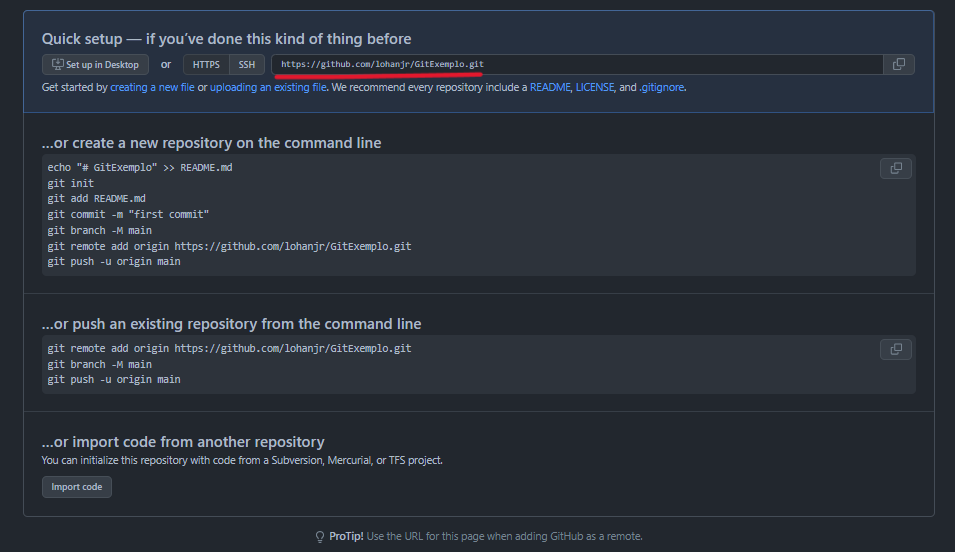
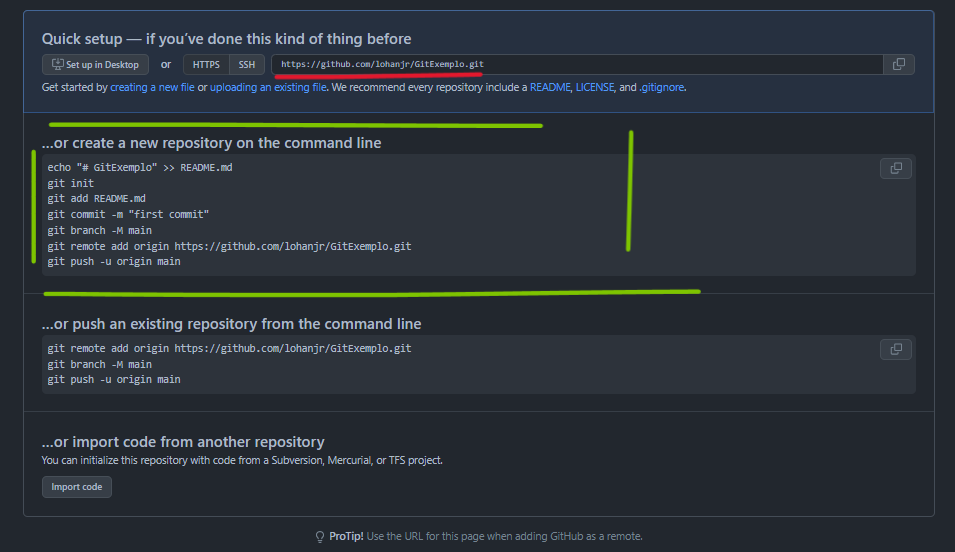
modified structure of the creating repos content

diff --git a/readme.md b/readme.md
@@ -4,13 +4,47 @@ Olá, irei colocar aqui alguns comandinhos e atalhos como dicas que venho aprend
 
 A lógica que iremos seguir será, estabelecer uma conexão entre seu repositório local ao remoto do _Github.com_! Para nos possibilitar segurança e versionamentos(alterações individuais ou em equipe) ao desenvolver o projeto.
 
-> _PS: Vou me basear na situação em que você já possui o(s) arquivo(s) do seu projeto salvo no seu dispositivo..._
+> _PS: Vou me basear na situação em que você irá criar um repositório novo, um que não tenha arquivos..._
 
 ## - Criando um novo repositório
 
-* Dê um `Git Bash Here` na pasta pai em que seus arquivos se encontram, o terminal irá se abrir já no caminho correto.
+* Ao acessar sua conta do GitHub, na página inicial, você irá clicar no botão _New._
 
-* Dê um `git init`, para assim, inicializarmos um repositório vazio. O interessante é que se, no _Explorador de Arquivos_ clicarmos na opção "Vizualizar > Itens Ocultos". Poderemos ver que uma pasta oculta foi adicionada, com nome: <b>.git</b>
+![tela inicial GitHub](imgs/gitHubHomePage.png)
+
+* Após isso, você terá que nomear o seu novo repositório e, caso queira, adicionar uma descrição a ele.
+
+![tela de criação de repo git](imgs/repositorioGitExemplo.png)
+
+> Não iremos marcar a opção de _Add a README file_ agora, pois iremos abordar esse assunto posteriormente.
+
+Sendo assim, já criamos o repositório remoto no servidor do GitHub, basta conectarmos os arquivos que iremos criar na nossa máquina a ele. E para fazer isso, vamos utilizar a linha de comandos Git Bash e seguir alguns passos que o GitHub nos fornece.
+
+![link do repositório](imgs/RemotePartGrifado.png)
+
+O link grifado em vermelho, é o URL do repositório Git remoto no GitHub, que é usada para fazermos a conexão entre o local e remoto, sendo super importante.</br>
+E iremos utilizar os comandos que foram contornados em verde, para conluirmos a conexão e envio de arquivos.</br>Vamos agora, para a área de trabalho, para termos um ambiente visualmente limpo para iniciarmos.
+
+![link do repositório](imgs/openingGitBashCommandLine.png)
+
+* Use o botão direito do mouse e clique em _Git Bash Here_, a linha de comando então será aberta. Agora, você terá que escolher ou criar uma pasta, onde iremos criar nossos arquivos e dar ínicio ao repositório local.
+
+![link do repositório](imgs/fileManagerPath.png)
+
+* Após decidir o diretório, basta copiar o caminho e colá-lo no Git Bash, com o comando:
+```bash
+cd "C:\Lohan\Estudo\gitExemplo"
+```
+
+![link do repositório](imgs/changingDirectoryBash.png)
+
+> `pwd` nos mostra em qual caminho nos encontramos no momento
+
+Note que o meu caminho será C:\Lohan\Estudo\gitExemplo, basta substituir pelo seu!
+
+
+
+<!-- * Dê um `git init`, para assim, inicializarmos um repositório vazio. O interessante é que se, no _Explorador de Arquivos_ clicarmos na opção "Vizualizar > Itens Ocultos". Poderemos ver que uma pasta oculta foi adicionada, com nome: <b>.git</b>
 > _PS: Ela será responsável pela conexão, não a modifique._
 
 * Com o comando `git status`, poderemos ver a situação atual da configuração, nesse momento, irá aparecer os arquivos filhos presentes na pasta, com a situação: "Untracked" ou 'Não Rastreado', pois ainda não os adicionamos.
@@ -41,7 +75,8 @@ Sendo assim, podemos avançar a próxima etapa.
 
 * Agora, basta fazermos o envio de fato, utilizando `git push -u origin main`. O _'-u'_ siginifica _upstream_, indica que, futuras mudanças necessitaram apenas do _git push_ para enviar as alterações locais para o repositório remoto.
 
-Com isso, temos o primeiro commit aplicado com **sucesso!!**
+Com isso, temos o primeiro commit aplicado com **sucesso!!** -->
+
 ## - Modificando e Atualizando
 Iremos agora nos aprofundar nas técnicas de alteração de código. O estágio em que passamos mais tempo...
 
